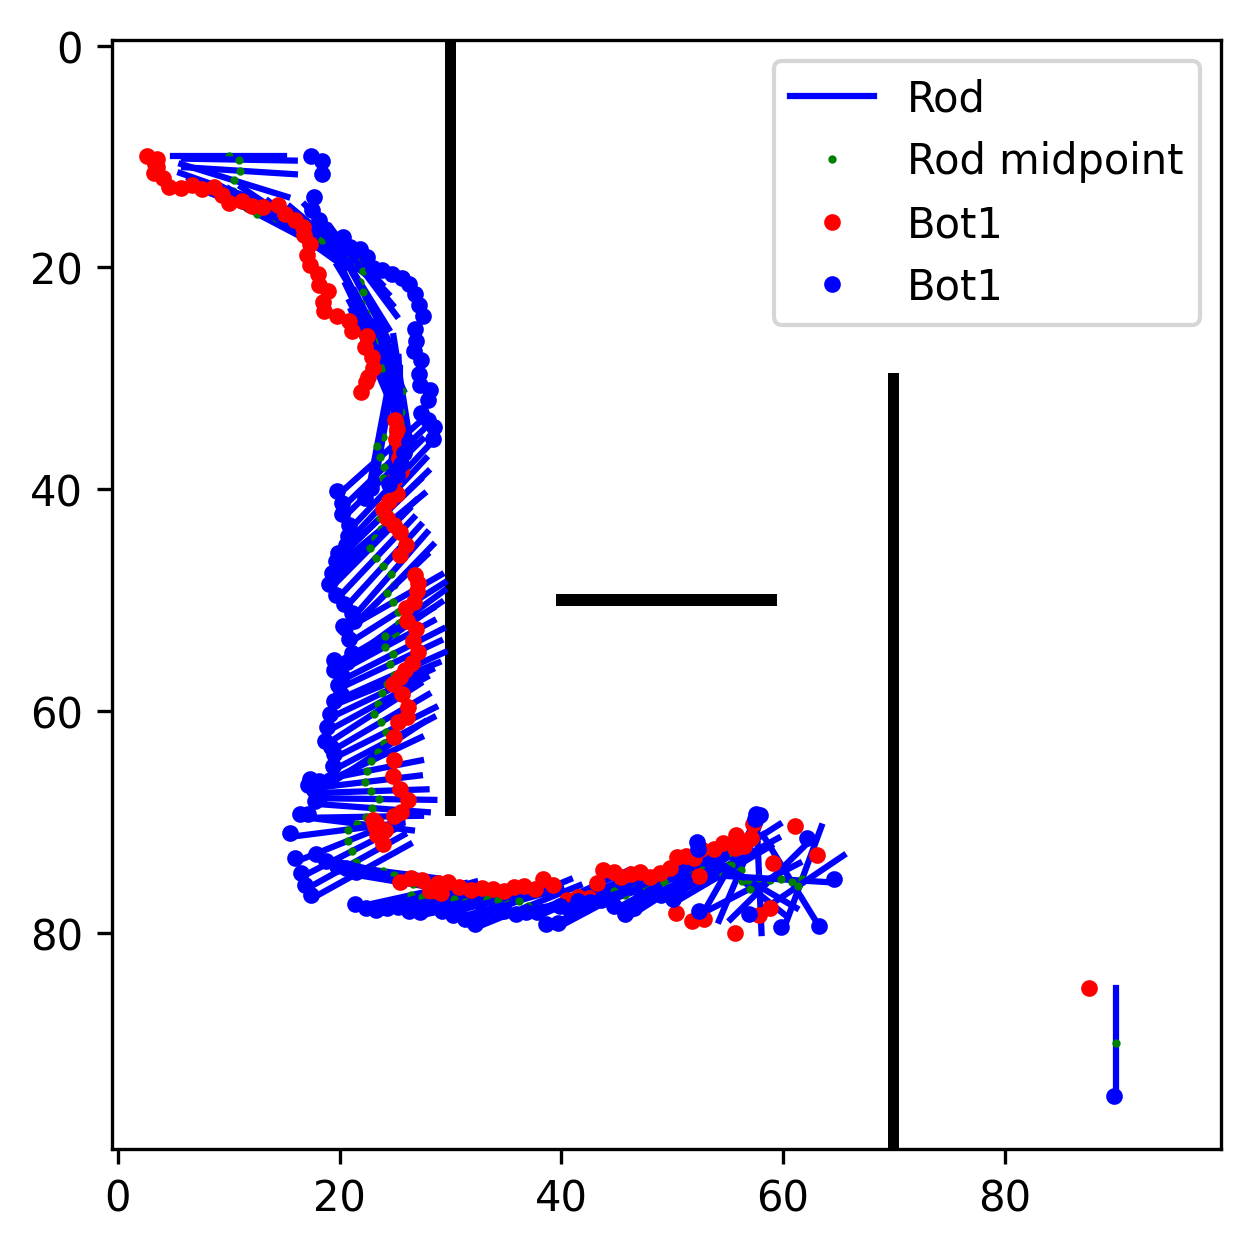
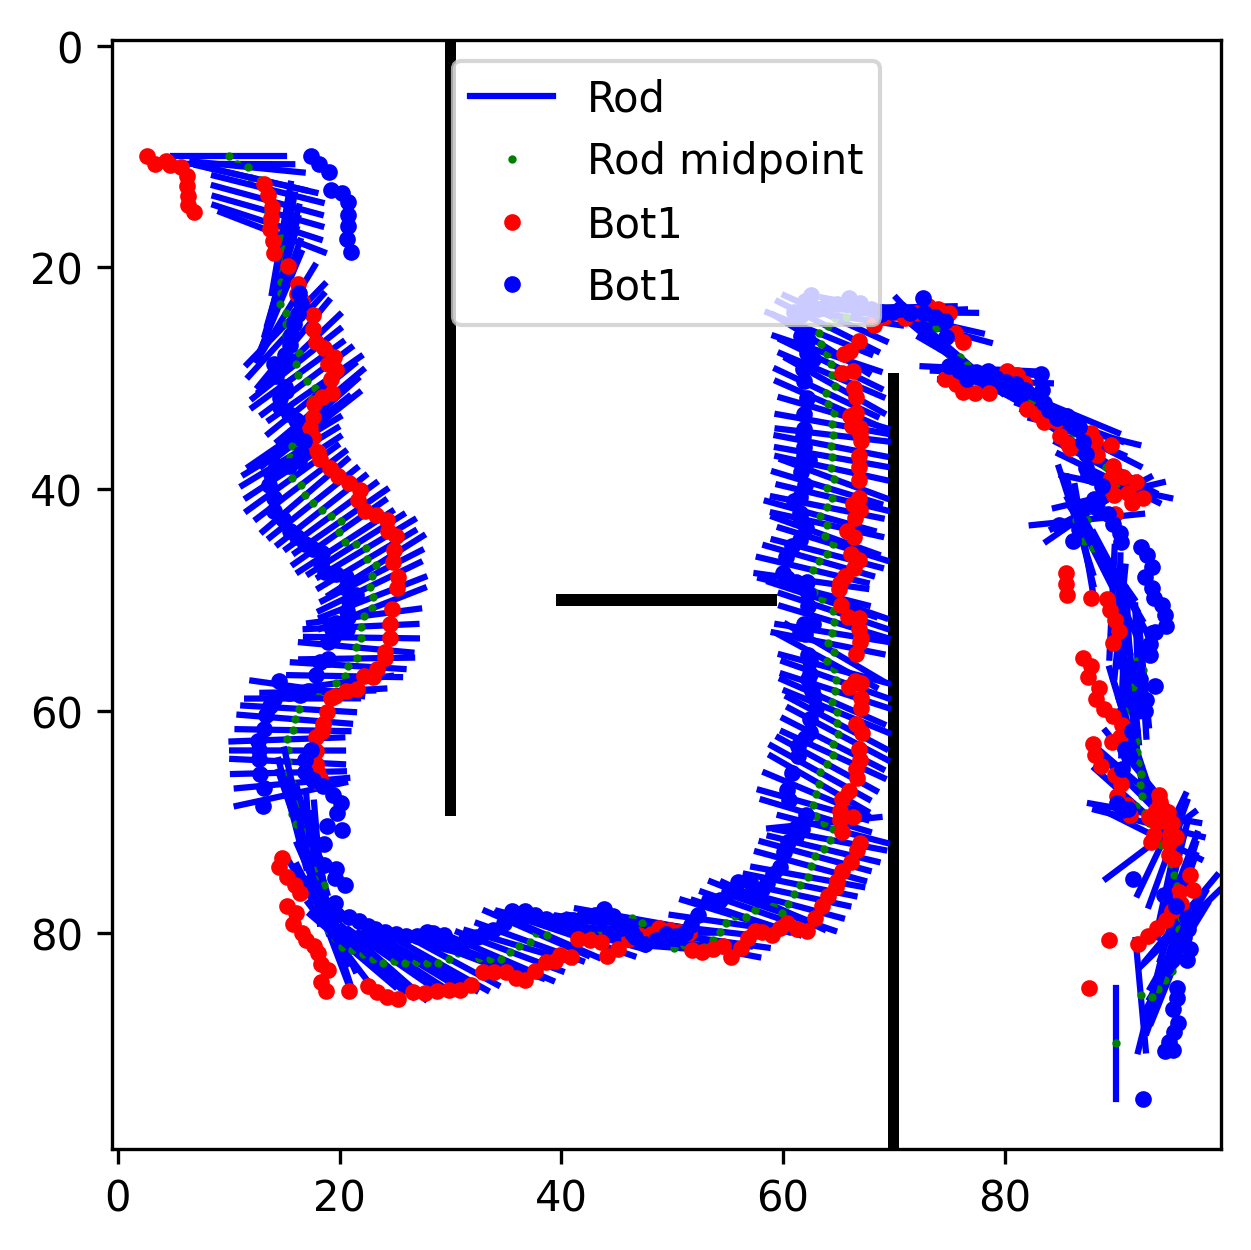
better results

Changed region(s): [[0.1247, 0.0312, 0.9976, 0.8424], [0.9041, 0.8736, 0.9353, 0.9048], [0.4053, 0.156, 0.4365, 0.1872]]

diff --git a/RRT.py b/RRT.py
@@ -59,7 +59,7 @@ def is_collision(node, map, rod_length):
             return True
     return False
 
-def check_path_collision(from_node, to_node, map, rod_length, num_checks=50):
+def check_path_collision(from_node, to_node, map, rod_length, num_checks=100):
     # 连杆碰撞检测
     for i in range(1, num_checks + 1):
         alpha = i / num_checks
@@ -75,6 +75,7 @@ def rrt_planner(map, start, goal, rod_length, step_size, max_iter=50000):
     start_node = Node(*start)
     goal_node = Node(*goal)
     nodes = [start_node]
+    find_end = False
 
     for _ in range(max_iter):
         if random.random() < 0.01:
@@ -99,8 +100,11 @@ def rrt_planner(map, start, goal, rod_length, step_size, max_iter=50000):
         if distance(new_node, goal_node) < 5 and not is_collision(goal_node, map, rod_length):
             goal_node.parent = new_node
             nodes.append(goal_node)
+            find_end = True
             break
 
+    if not find_end:
+        return None
     path = []
     node = goal_node
     while node is not None:

diff --git a/main.py b/main.py
@@ -44,6 +44,8 @@ if __name__ == '__main__':
         # (1).RRT算法规划搬运物体的路径
         RRT_step_size = map_size[0]/100
         path = rrt_planner(map, start, goal, rod_length, RRT_step_size)
+        if path is None:
+            continue
         
         # (2).计算可行的bot路径
         bot1_path, bot2_path = bot.path_planner(map, path, start_pos, z, rod_length)
